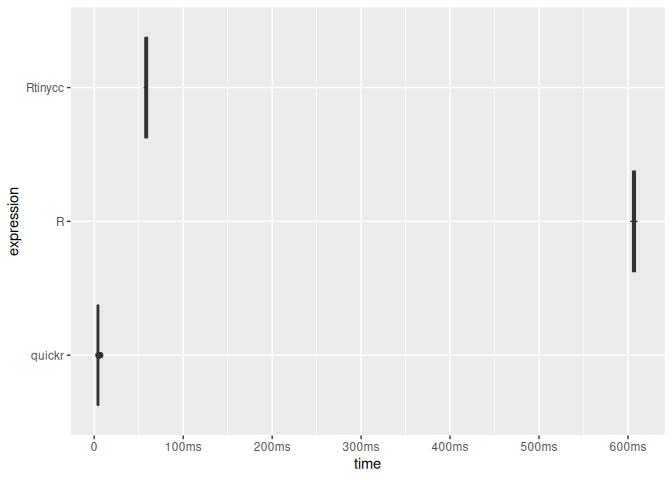
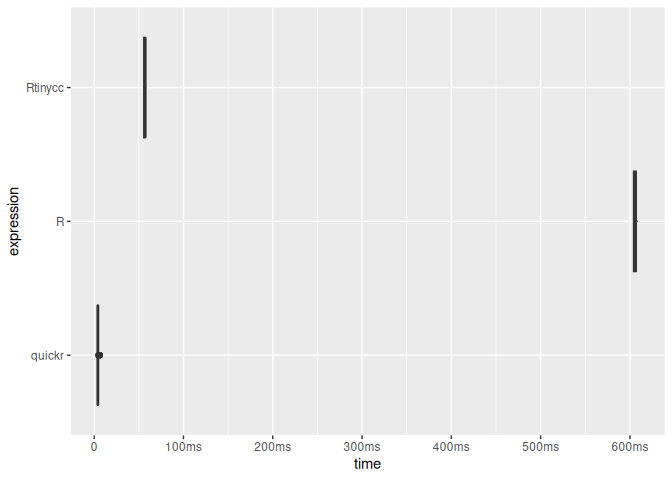
toward async callbacks on windows

diff --git a/README.md b/README.md
@@ -75,21 +75,19 @@ Simon Urbanek’s [`background`](https://github.com/s-u/background)
 package implementation.
 
 Windows support (experimental) required solving several interacting
-problems. R 4.2+ on Windows uses the Universal CRT (`ucrtbase.dll`)
-while TinyCC’s default import-definition set is centered on `msvcrt`.
-The build system mitigates this by generating an import-definition file
-from `ucrtbase.dll` and storing it as `msvcrt.def`, so TinyCC’s
-`-lmsvcrt` lookup is redirected toward UCRT exports.
-
-This mitigation reduces cross-CRT allocation/free hazards, but it is not
-a universal guarantee for every CRT-facing symbol across all toolchains.
-In practice, we also avoid `printf`-family and prefer R API output
-(`Rf_warning()`, `Rprintf()`) for diagnostics.
-
-`fork()`-based parallelism is not available. We also observed
-intermittent crashes when running `tinytest::test_package()` in a single
-long-lived R process on Windows; the same tests run one-by-one in fresh
-R processes do not reproduce the crash, which points to process-lifetime
+problems (so using WSL2 is prefered). R 4.2+ on Windows uses the
+Universal CRT (`ucrtbase.dll`) while TinyCC’s default import-definition
+set is centered on `msvcrt`. The build system mitigates this by
+generating an import-definition file from `ucrtbase.dll` and storing it
+as `msvcrt.def`, so TinyCC’s `-lmsvcrt` lookup is redirected toward UCRT
+exports. This mitigation reduces cross-CRT allocation/free hazards, but
+it is not a universal guarantee for every CRT-facing symbol across all
+toolchains. In practice, we also avoid `printf`-family and prefer R API
+output (`Rf_warning()`, `Rprintf()`) for diagnostics. `fork()`-based
+parallelism is not available on winowds. We also observed intermittent
+crashes when running `tinytest::test_package()` in a single long-lived R
+process on Windows; the same tests run one-by-one in fresh R processes
+do not reproduce the crash, which points to process-lifetime
 teardown/state interactions rather than a single isolated test failure.
 
 ## Installation
@@ -191,7 +189,7 @@ tcc_read_cstring(ptr)
 tcc_read_bytes(ptr, 5)
 #> [1] 68 65 6c 6c 6f
 tcc_ptr_addr(ptr, hex = TRUE)
-#> [1] "0x559ac8af3430"
+#> [1] "0x5ebd1d56c180"
 tcc_ptr_is_null(ptr)
 #> [1] FALSE
 tcc_free(ptr)
@@ -222,11 +220,11 @@ through output parameters.
 ptr_ref <- tcc_malloc(.Machine$sizeof.pointer %||% 8L)
 target <- tcc_malloc(8)
 tcc_ptr_set(ptr_ref, target)
-#> <pointer: 0x559ac96a6e00>
+#> <pointer: 0x5ebd1cace800>
 tcc_data_ptr(ptr_ref)
-#> <pointer: 0x559ac89d3250>
+#> <pointer: 0x5ebd1e0afed0>
 tcc_ptr_set(ptr_ref, tcc_null_ptr())
-#> <pointer: 0x559ac96a6e00>
+#> <pointer: 0x5ebd1cace800>
 tcc_free(target)
 #> NULL
 tcc_free(ptr_ref)
@@ -289,8 +287,8 @@ bench::mark(
 #> # A tibble: 2 × 6
 #>   expression      min   median `itr/sec` mem_alloc `gc/sec`
 #>   <bch:expr> <bch:tm> <bch:tm>     <dbl> <bch:byt>    <dbl>
-#> 1 Rtinycc      29.4ms   53.5ms      20.5   53.98KB     26.1
-#> 2 Rbuiltin    556.8µs  584.2µs    1608.     9.05KB     28.0
+#> 1 Rtinycc      29.6ms   33.9ms      21.8   53.98KB     29.1
+#> 2 Rbuiltin    551.4µs  600.4µs    1577.     9.05KB     28.0
 
 # For performance-sensitive code, move the loop into C and operate on arrays.
 ffi_vec <- tcc_ffi() |>
@@ -319,8 +317,8 @@ bench::mark(
 #> # A tibble: 2 × 6
 #>   expression        min   median `itr/sec` mem_alloc `gc/sec`
 #>   <bch:expr>   <bch:tm> <bch:tm>     <dbl> <bch:byt>    <dbl>
-#> 1 Rtinycc_vec    20.2µs   20.9µs    45314.    39.1KB     31.7
-#> 2 Rbuiltin_vec   16.9µs   17.6µs    56330.    78.2KB     79.0
+#> 1 Rtinycc_vec    19.8µs   20.7µs    45461.    39.1KB     31.8
+#> 2 Rbuiltin_vec   17.1µs   17.6µs    56309.    78.2KB     84.6
 ```
 
 ### Linking external libraries
@@ -383,7 +381,7 @@ ffi <- tcc_ffi() |>
 
 x <- as.integer(1:100) # to avoid ALTREP
 .Internal(inspect(x))
-#> @559acaa9c330 13 INTSXP g0c0 [REF(65535)]  1 : 100 (compact)
+#> @5ebd200364b0 13 INTSXP g0c0 [REF(65535)]  1 : 100 (compact)
 ffi$sum_array(x, length(x))
 #> [1] 5050
 
@@ -399,7 +397,7 @@ y[1]
 #> [1] 11
 
 .Internal(inspect(x))
-#> @559acaa9c330 13 INTSXP g0c0 [REF(65535)]  11 : 110 (expanded)
+#> @5ebd200364b0 13 INTSXP g0c0 [REF(65535)]  11 : 110 (expanded)
 ```
 
 ### Benchmark
@@ -463,9 +461,9 @@ timings
 #> # A tibble: 3 × 6
 #>   expression      min   median `itr/sec` mem_alloc `gc/sec`
 #>   <bch:expr> <bch:tm> <bch:tm>     <dbl> <bch:byt>    <dbl>
-#> 1 R          602.46ms  602.5ms      1.66     847KB    4.98 
-#> 2 quickr       3.73ms    4.2ms    238.       782KB    4.10 
-#> 3 Rtinycc     55.42ms   57.9ms     17.1      782KB    0.503
+#> 1 R          604.28ms 604.28ms      1.65     847KB    4.96 
+#> 2 quickr       3.77ms   4.12ms    242.       782KB    4.10 
+#> 3 Rtinycc     55.34ms  56.98ms     17.6      782KB    0.504
 plot(timings, type = "boxplot") + bench::scale_x_bench_time(base = NULL)
 ```
 
@@ -493,15 +491,15 @@ ffi <- tcc_ffi() |>
 
 p1 <- ffi$struct_point_new()
 ffi$struct_point_set_x(p1, 0.0)
-#> <pointer: 0x559aca1153b0>
+#> <pointer: 0x5ebd1bcbdf80>
 ffi$struct_point_set_y(p1, 0.0)
-#> <pointer: 0x559aca1153b0>
+#> <pointer: 0x5ebd1bcbdf80>
 
 p2 <- ffi$struct_point_new()
 ffi$struct_point_set_x(p2, 3.0)
-#> <pointer: 0x559acccf0270>
+#> <pointer: 0x5ebd2a157cb0>
 ffi$struct_point_set_y(p2, 4.0)
-#> <pointer: 0x559acccf0270>
+#> <pointer: 0x5ebd2a157cb0>
 
 ffi$distance(p1, p2)
 #> [1] 5
@@ -546,9 +544,9 @@ ffi <- tcc_ffi() |>
 
 s <- ffi$struct_flags_new()
 ffi$struct_flags_set_active(s, 1L)
-#> <pointer: 0x559acb45e7b0>
+#> <pointer: 0x5ebd1ca19530>
 ffi$struct_flags_set_level(s, 9L)
-#> <pointer: 0x559acb45e7b0>
+#> <pointer: 0x5ebd1ca19530>
 ffi$struct_flags_get_active(s)
 #> [1] 1
 ffi$struct_flags_get_level(s)
@@ -873,7 +871,7 @@ ffi <- tcc_ffi() |>
   tcc_compile()
 
 ffi$struct_point_new()
-#> <pointer: 0x559acb937870>
+#> <pointer: 0x5ebd2b32fa10>
 ffi$enum_status_OK()
 #> [1] 0
 ffi$global_global_counter_get()
@@ -926,11 +924,11 @@ ffi <- tcc_ffi() |>
 o <- ffi$struct_outer_new()
 i <- ffi$struct_inner_new()
 ffi$struct_inner_set_a(i, 42L)
-#> <pointer: 0x559acdc1cb60>
+#> <pointer: 0x5ebd1c176db0>
 
 # Write the inner pointer into the outer struct
 ffi$struct_outer_in_addr(o) |> tcc_ptr_set(i)
-#> <pointer: 0x559ad72be4c0>
+#> <pointer: 0x5ebd2a4b69d0>
 
 # Read it back through indirection
 ffi$struct_outer_in_addr(o) |>
@@ -959,9 +957,9 @@ ffi <- tcc_ffi() |>
 
 b <- ffi$struct_buf_new()
 ffi$struct_buf_set_data_elt(b, 0L, 0xCAL)
-#> <pointer: 0x559ac9e40600>
+#> <pointer: 0x5ebd20bb3750>
 ffi$struct_buf_set_data_elt(b, 1L, 0xFEL)
-#> <pointer: 0x559ac9e40600>
+#> <pointer: 0x5ebd20bb3750>
 ffi$struct_buf_get_data_elt(b, 0L)
 #> [1] 202
 ffi$struct_buf_get_data_elt(b, 1L)
